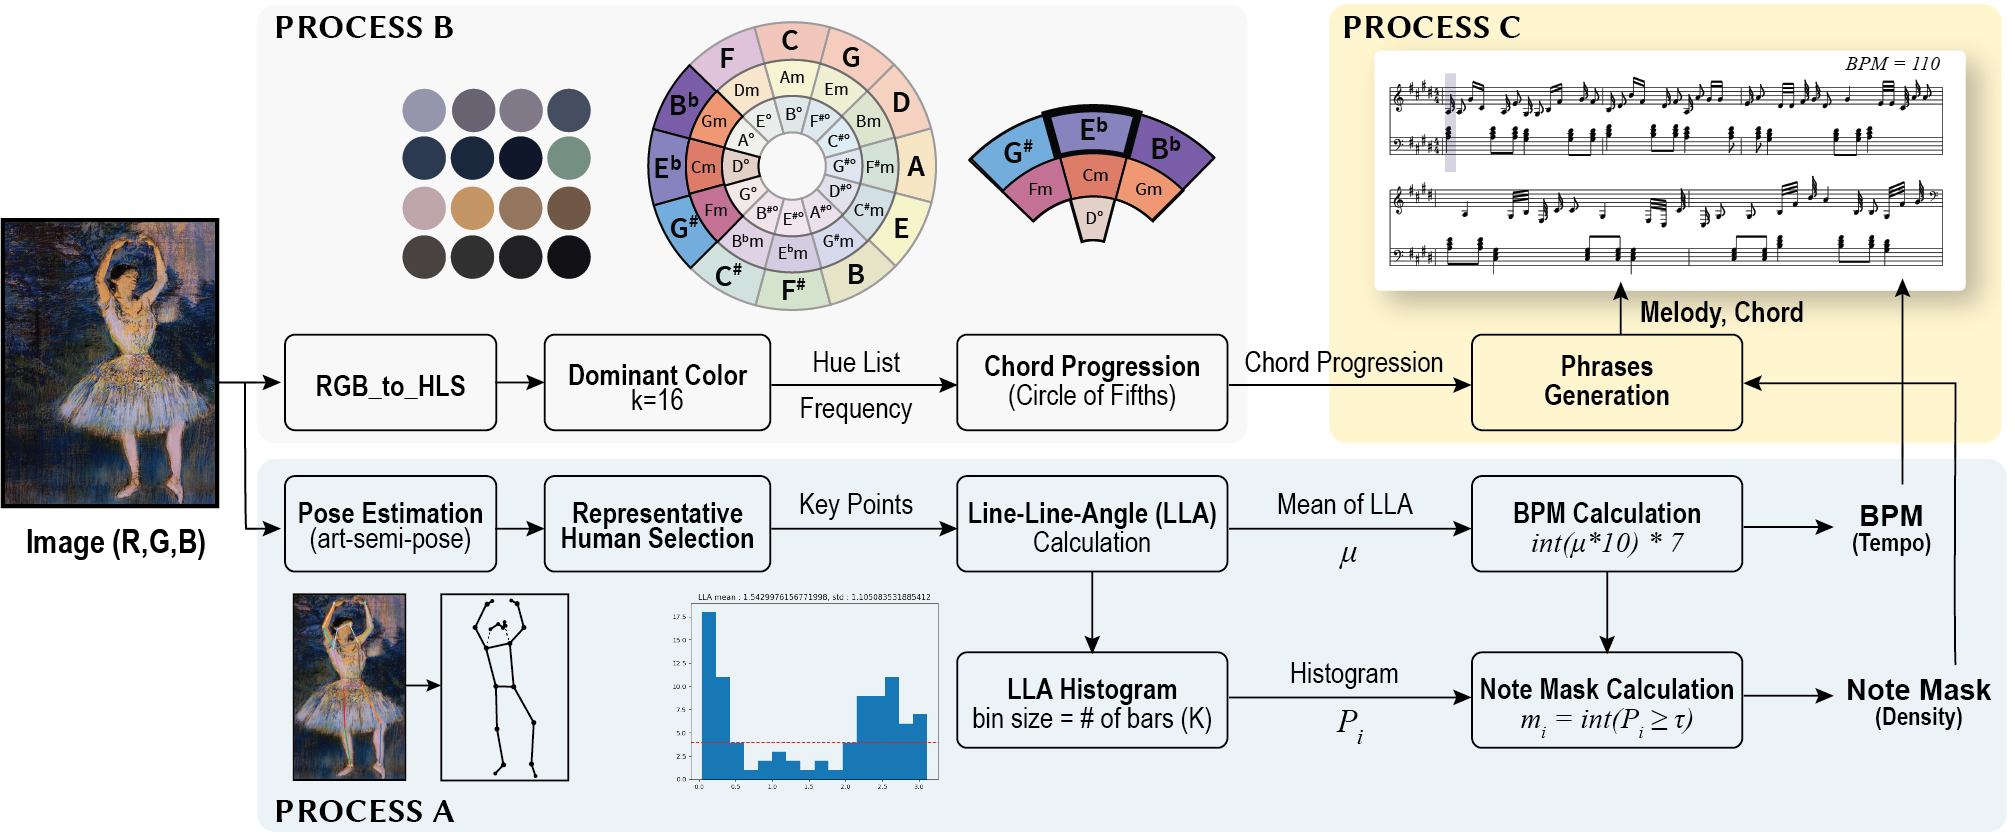
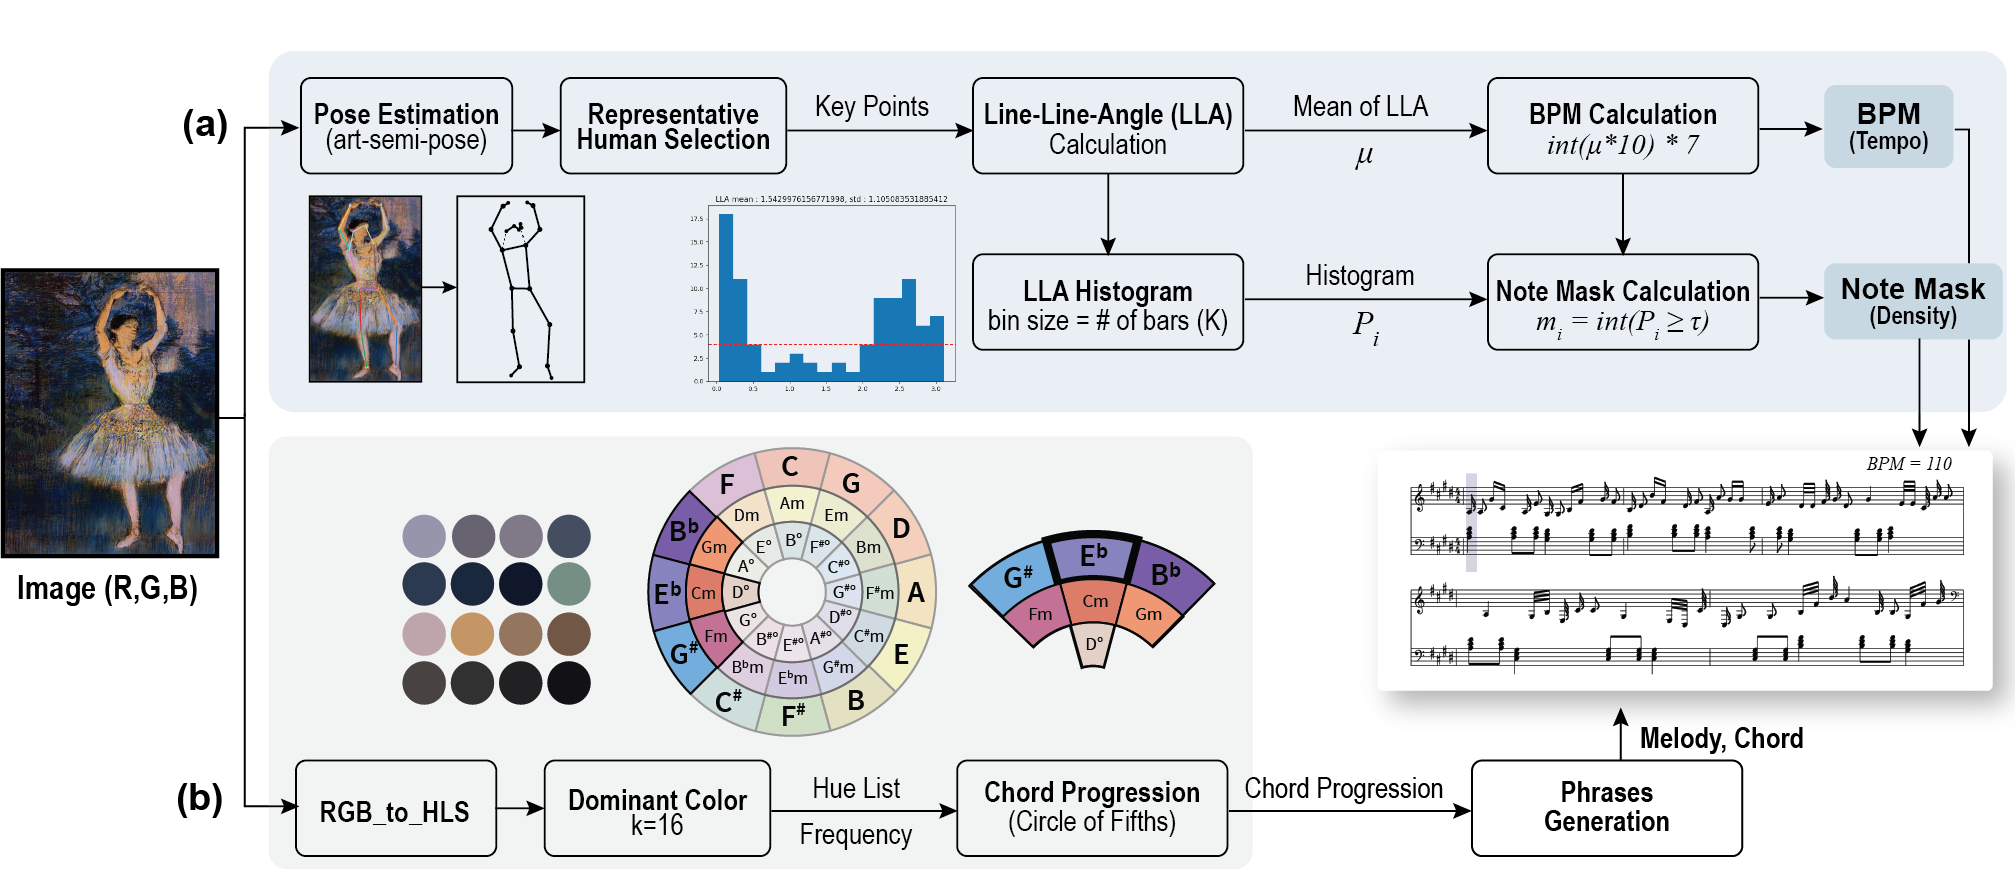
update

diff --git a/public/index.html b/public/index.html
@@ -98,7 +98,7 @@
         <h1 class="title">Ponify Demo</h1>
         <div class="content">
           
-          <h3 id="hello-this-website-is-a-demo-page-for-our-ponify-project-ponify-is-an-art-sonification-method-that-generates-music-that-expresses-_the-sense-of-dynamics_-of-a-given-painting-to-do-so-we-anlayze-the-_poses-of-people-in-the-paintings_-and-applied-it-to-musical-parameters">Hello! This website is a demo page for our <strong>Ponify Project</strong>. Ponify is an art sonification method that generates music that expresses &lsquo;<em>the sense of dynamics</em>&rsquo; of a given painting. To do so, we anlayze the &lsquo;<em>poses of people in the paintings</em>&rsquo;, and applied it to musical parameters.</h3>
+          <h3 id="hello-this-website-is-a-demo-page-for-our-ponify-project-ponify-is-an-art-sonification-method-that-generates-music-that-conveys-_the-sense-of-dynamics_-of-a-given-painting-to-do-so-we-anlayze-the-_poses-of-people-in-the-paintings_-and-applied-it-to-musical-parameters">Hello! This website is a demo page for our <strong>Ponify Project</strong>. Ponify is an art sonification method that generates music that conveys &lsquo;<em>the sense of dynamics</em>&rsquo; of a given painting. To do so, we anlayze the &lsquo;<em>poses of people in the paintings</em>&rsquo;, and applied it to musical parameters.</h3>
 
           
         </div>
@@ -122,7 +122,7 @@
       <div class="col-12">
         <div class="sub-footer-inner">
           <ul>
-            <li class="zerostatic">Convergence Design Lab | Yonsei University</li>
+            <li class="zerostatic">Demo Page: Ponify</li>
           </ul>
         </div>
       </div>

diff --git a/public/docs/study-demo/index.html b/public/docs/study-demo/index.html
@@ -125,7 +125,7 @@
   
 <div class="blankSpace20"></div>
 <div class="card" style="background-color: #ebf4fc">
-    <img class="card-img-top" src="/images/soundCriteria.png" alt="sound criteria" />
+    <img class="card-img-top" src="/images/soundStimuli.png" alt="sound criteria" />
     <div class="card-body">
         <p class="card-text"></p>
     </div>
@@ -515,9 +515,6 @@
 
 </div>
 
-<h5 id="다음페이지로-넘어가기-전에-submit버튼-누르기">다음페이지로 넘어가기 전에 &lsquo;Submit&rsquo;버튼 누르기!</h5>
-<p>각 페이지의 설문을 마무리 하고 다음 페이지로 넘어가기 전에, 꼭 Submit버튼을 눌러주세요. 그래야 데이터가 전달됩니다.<br>
-Before concluding each survey page and moving on to the next, please make sure to press the &ldquo;Submit&rdquo; button. This is essential for the data to be transmitted.</p>
 
 </div>
 
@@ -538,7 +535,7 @@ Before concluding each survey page and moving on to the next, please make sure t
       <div class="col-12">
         <div class="sub-footer-inner">
           <ul>
-            <li class="zerostatic">Convergence Design Lab | Yonsei University</li>
+            <li class="zerostatic">Demo Page: Ponify</li>
           </ul>
         </div>
       </div>

diff --git a/public/docs/ponify-intro/index.html b/public/docs/ponify-intro/index.html
@@ -111,11 +111,11 @@
           
 <h1 class="title">Intro.</h1>
 <div class="content ">
-  <p><strong>Ponify</strong> is a method that&hellip;.</p>
+  <p><strong>Ponify</strong> method uses pose analysis to generate music that reflects a painting’s dynamic perception. It first analyzes human poses to predict a sense of dynamics (SoD), then translates this into musical parameters like tempo and density. The chord progression is based on the painting’s dominant colors, using the Circle of Fifths. The process is fully automated.</p>
   
 <div class="blankSpace20"></div>
 <div class="card" style="background-color: #ebf4fc">
-    <img class="card-img-top" src="/images/framework.jpg" alt="Ponify Workflow" />
+    <img class="card-img-top" src="/images/framework2.jpg" alt="Ponify Workflow" />
     <div class="card-body">
         <p class="card-text"></p>
     </div>
@@ -140,7 +140,7 @@
       <div class="col-12">
         <div class="sub-footer-inner">
           <ul>
-            <li class="zerostatic">Convergence Design Lab | Yonsei University</li>
+            <li class="zerostatic">Demo Page: Ponify</li>
           </ul>
         </div>
       </div>

diff --git a/public/docs/ponify-demo/index.html b/public/docs/ponify-demo/index.html
@@ -111,7 +111,7 @@
           
 <h1 class="title">Ponify Demo</h1>
 <div class="content ">
-  <p>This paper introduced a new paradigm of integrating posture recognition and analysis framework with artwork sonification methods, as a way of conveying dynamic perceptions accompanied with paintings through sounds. The below demonstrates the musical sounds that were automatically generated via Ponify, using a painting image as an input.</p>
+  <p>The following showcases the musical sounds generated automatically by Ponify, using a painting image as input. Explore the audio files below to understand how the sound files capture the dynamic elements of the painting.</p>
 <h5 id="posify-demo">POSIFY DEMO</h5>
    
 
@@ -533,7 +533,7 @@
       <div class="col-12">
         <div class="sub-footer-inner">
           <ul>
-            <li class="zerostatic">Convergence Design Lab | Yonsei University</li>
+            <li class="zerostatic">Demo Page: Ponify</li>
           </ul>
         </div>
       </div>

diff --git a/public/docs/index.html b/public/docs/index.html
@@ -113,9 +113,7 @@
 <span class="overview">Overview</span>
 <h1 class="title">Demo Guidelines</h1>
 <div class="content">
-  <p>This page is a summarized guideline for the Artwork 1 to Artwork 21 survey.<br>
-<strong>Please read it carefully</strong> before completing the survey.</p>
-
+  
 </div>
 
 
@@ -154,7 +152,7 @@
       <div class="col-12">
         <div class="sub-footer-inner">
           <ul>
-            <li class="zerostatic">Convergence Design Lab | Yonsei University</li>
+            <li class="zerostatic">Demo Page: Ponify</li>
           </ul>
         </div>
       </div>

diff --git a/public/404.html b/public/404.html
@@ -97,7 +97,7 @@
       <div class="col-12">
         <div class="sub-footer-inner">
           <ul>
-            <li class="zerostatic">Convergence Design Lab | Yonsei University</li>
+            <li class="zerostatic">Demo Page: Ponify</li>
           </ul>
         </div>
       </div>

diff --git a/public/categories/index.html b/public/categories/index.html
@@ -99,7 +99,7 @@
       <div class="col-12">
         <div class="sub-footer-inner">
           <ul>
-            <li class="zerostatic">Convergence Design Lab | Yonsei University</li>
+            <li class="zerostatic">Demo Page: Ponify</li>
           </ul>
         </div>
       </div>

diff --git a/public/tags/index.html b/public/tags/index.html
@@ -99,7 +99,7 @@
       <div class="col-12">
         <div class="sub-footer-inner">
           <ul>
-            <li class="zerostatic">Convergence Design Lab | Yonsei University</li>
+            <li class="zerostatic">Demo Page: Ponify</li>
           </ul>
         </div>
       </div>

diff --git a/layouts/partials/sub-footer.html b/layouts/partials/sub-footer.html
@@ -4,7 +4,7 @@
       <div class="col-12">
         <div class="sub-footer-inner">
           <ul>
-            <li class="zerostatic">Convergence Design Lab | Yonsei University</li>
+            <li class="zerostatic">Demo Page: Ponify</li>
           </ul>
         </div>
       </div>

diff --git a/content/docs/Study Demo/index.md b/content/docs/Study Demo/index.md
@@ -15,7 +15,7 @@ This page introduces painting and sound dataset used for the user evaluation stu
 
 
 ##### Musical Sound Set used for User Evaluation Study
-{{< figure "/images/soundCriteria.png" "sound criteria" >}}{{< /figure >}}
+{{< figure "/images/soundStimuli.png" "sound criteria" >}}{{< /figure >}}
 
 
 
@@ -47,8 +47,3 @@ This page introduces painting and sound dataset used for the user evaluation stu
 {{<evaluationDemo "/images/paintings/12.jpg" "/images/soundsA/12.mp3" "/images/soundsB/12.mp3" "/images/sounds/12.mp3">}}{{</evaluationDemo>}}
 
 
-
-
-##### 다음페이지로 넘어가기 전에 'Submit'버튼 누르기!
-각 페이지의 설문을 마무리 하고 다음 페이지로 넘어가기 전에, 꼭 Submit버튼을 눌러주세요. 그래야 데이터가 전달됩니다.  
-Before concluding each survey page and moving on to the next, please make sure to press the "Submit" button. This is essential for the data to be transmitted.

diff --git a/content/_index.md b/content/_index.md
@@ -4,4 +4,4 @@ date: 2018-11-28T15:14:39+10:00
 ---
 
 
-### Hello! This website is a demo page for our **Ponify Project**. Ponify is an art sonification method that generates music that expresses '_the sense of dynamics_' of a given painting. To do so, we anlayze the '_poses of people in the paintings_', and applied it to musical parameters. 
+### Hello! This website is a demo page for our **Ponify Project**. Ponify is an art sonification method that generates music that conveys '_the sense of dynamics_' of a given painting. To do so, we anlayze the '_poses of people in the paintings_', and applied it to musical parameters. 

diff --git a/content/docs/Ponify Demo/index.md b/content/docs/Ponify Demo/index.md
@@ -5,8 +5,7 @@ weight: 2
 ---
 
 
-This paper introduced a new paradigm of integrating posture recognition and analysis framework with artwork sonification methods, as a way of conveying dynamic perceptions accompanied with paintings through sounds. The below demonstrates the musical sounds that were automatically generated via Ponify, using a painting image as an input. 
-
+The following showcases the musical sounds generated automatically by Ponify, using a painting image as input. Explore the audio files below to understand how the sound files capture the dynamic elements of the painting.
 
 ##### POSIFY DEMO 
 
